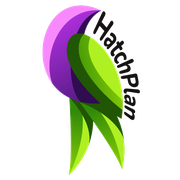
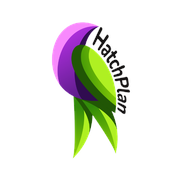
Fix PWA ikona i splash screen
- Maskable ikona: logo na 72% canvasa, bijela pozadina (Android safe zone)
- Any ikona: puni logo bez rezanja (za settings, task switcher)
- Manifest: odvojeni any i maskable ikoni
- Splash screen: bijela pozadina, nema crnog pozadine

Changed region(s): [[0.2222, 0.0278, 0.7778, 0.9722], [0.4722, 0.4722, 0.5, 0.5278], [0.4444, 0.3611, 0.4722, 0.3889]]

diff --git a/src/routes/+layout.svelte b/src/routes/+layout.svelte
@@ -89,10 +89,10 @@
 <Toast position="br" />
 
 {#if authLoading}
-	<div class="flex min-h-screen items-center justify-center bg-surface-50-900-token">
-		<div class="text-center space-y-4">
-			<img src="/app-logo.png" alt="HatchPlan" class="w-40 h-40 mx-auto animate-pulse" />
-			<p class="text-surface-400 text-sm">{t.app.loading}</p>
+	<div class="flex min-h-screen items-center justify-center" style="background:#ffffff">
+		<div class="text-center space-y-5">
+			<img src="/app-logo.png" alt="HatchPlan" class="w-48 h-48 mx-auto" style="animation: pulse 1.5s ease-in-out infinite;" />
+			<p style="color:#64748b; font-size:0.9rem; letter-spacing:0.05em">{t.app.loading}</p>
 		</div>
 	</div>
 {:else if $isAuthenticated}
